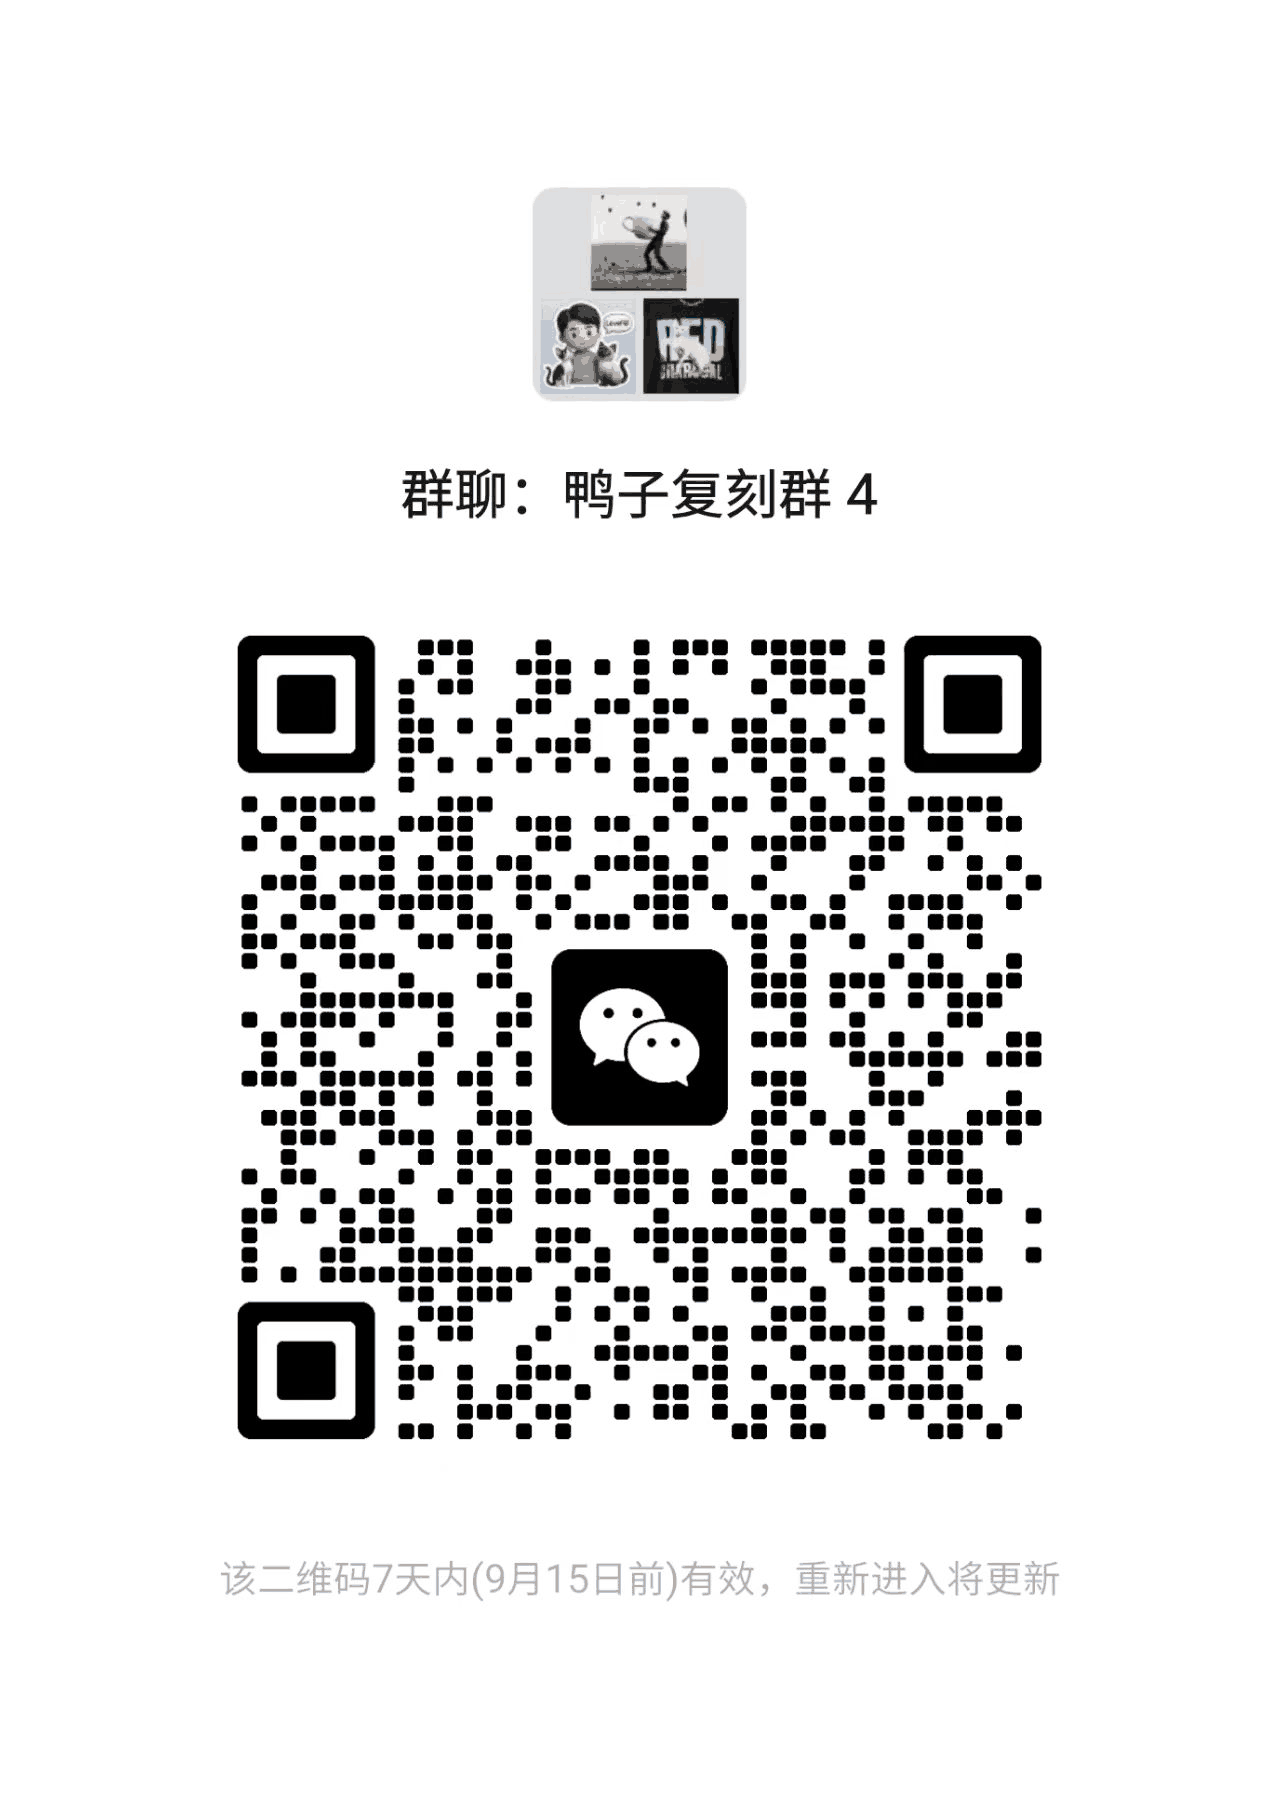
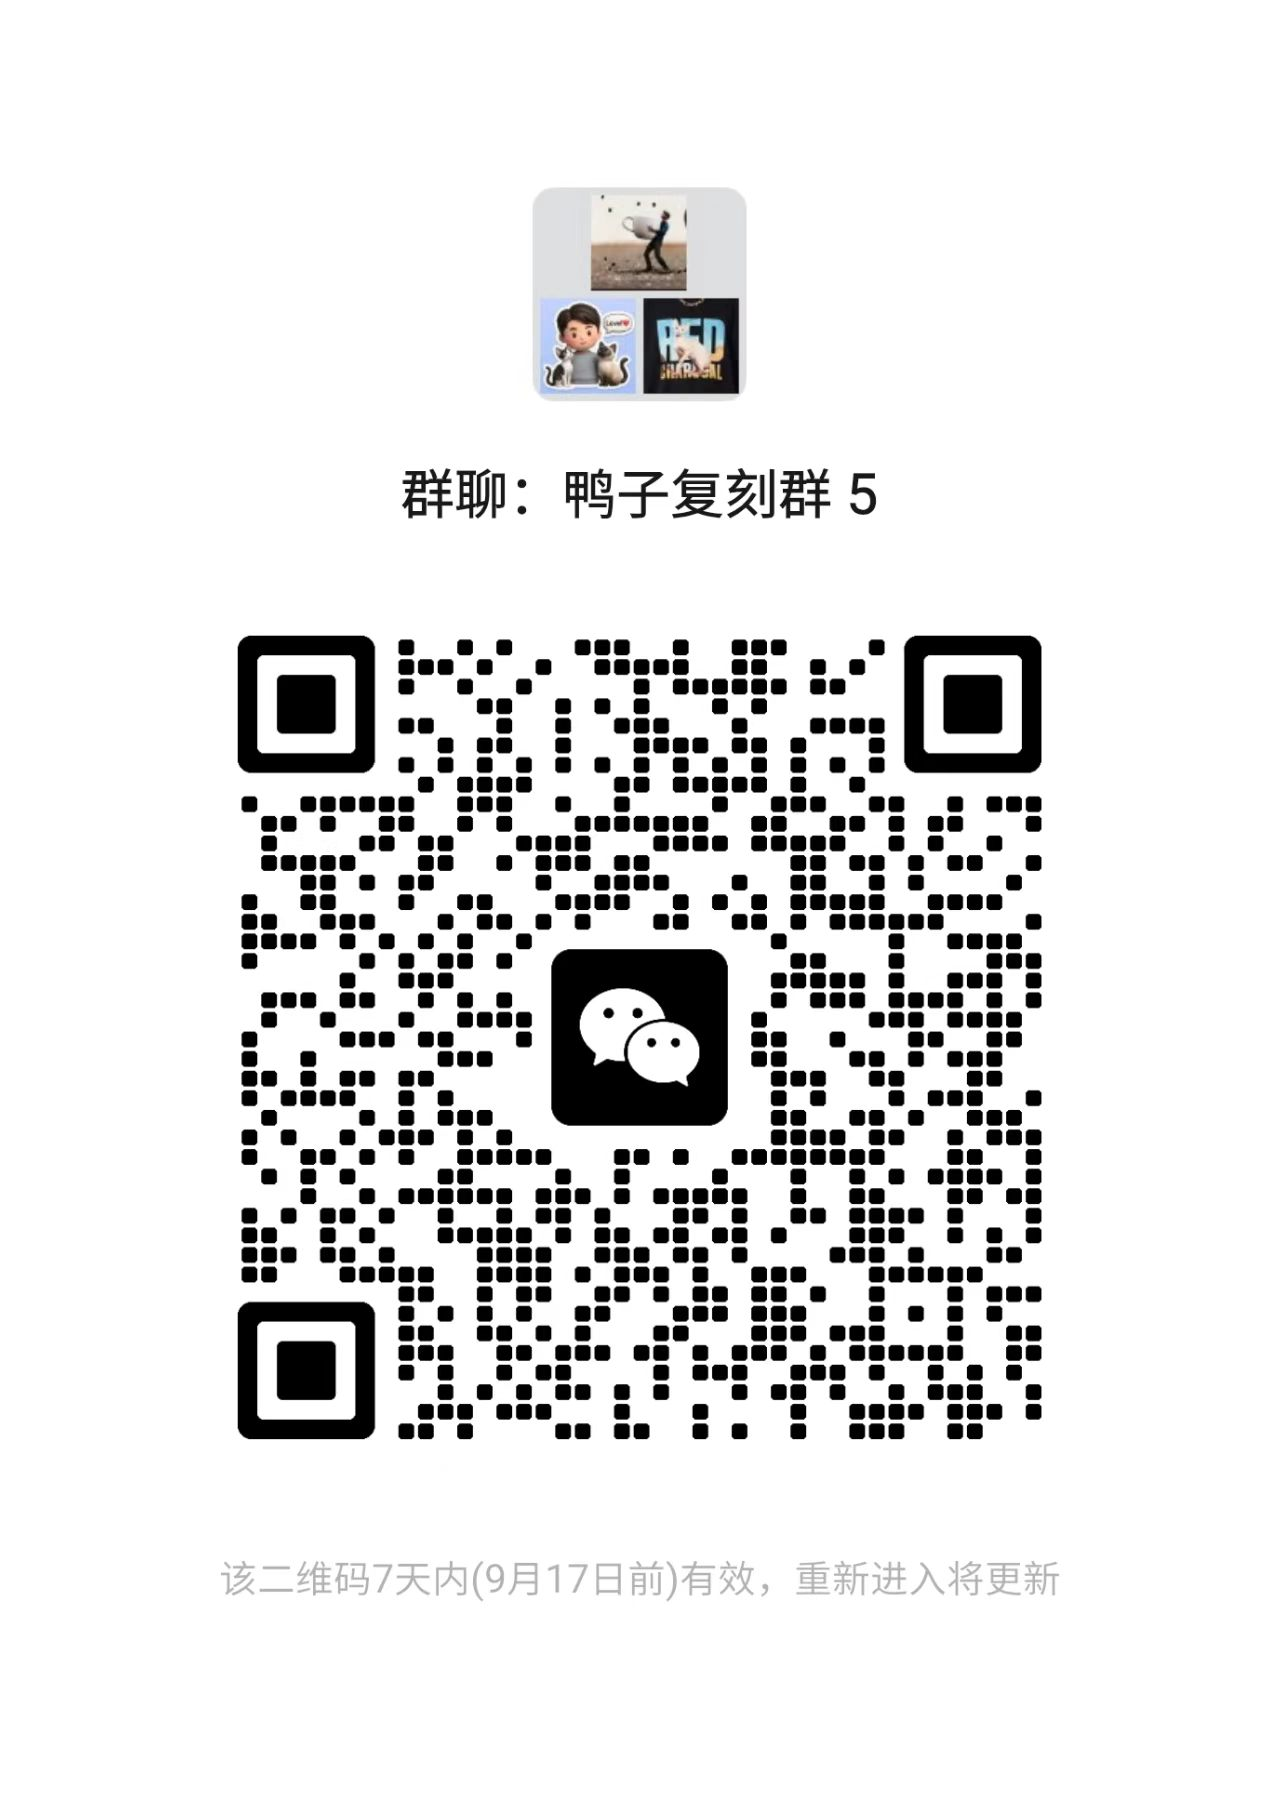
换微信群二维码：四群已满，改挂五群的码（有效期到 2026-09-17）
Claude-Session: https://claude.ai/code/session_01QaUYTekdzwBKjcMGiQfvpz

diff --git a/README.md b/README.md
@@ -28,12 +28,12 @@ MJCF 里包含了完整的运动学树：每个零件挂在谁身上、相对位
 
 有人在做同样的事，凑了个微信群一起讨论复刻进度、踩过的坑、元件采购。
 
-**一群、二群、三群都已满 200 人**（微信满 200 后无法扫码进），下面是**四群**的码。
+**一群到四群都已满 200 人**（微信满 200 后无法扫码进），下面是**五群**的码。
 
 <div align="center">
   <img src="assets/wechat-group.png" alt="鸭子复刻 微信群" width="280">
   <br>
-  <sub><b>鸭子复刻群 4 · 二维码有效期到 2026-09-15</b>（微信群码 7 天自动失效）<br>
+  <sub><b>鸭子复刻群 5 · 二维码有效期到 2026-09-17</b>（微信群码 7 天自动失效）<br>
   过期了请开个 <a href="https://github.com/fanhao375/microduck-replica/issues">issue</a> 说一声，我会换上新的</sub>
 </div>
 

diff --git a/README.en.md b/README.en.md
@@ -44,12 +44,12 @@ This repository is what falls out of reading both.
 
 A WeChat group for people working on the same thing — build progress, pitfalls, sourcing.
 
-**Groups 1, 2 and 3 are full (200 members each — WeChat's cap for QR joins).** The code below is for **group 4**.
+**Groups 1–4 are full (200 members each — WeChat's cap for QR joins).** The code below is for **group 5**.
 
 <div align="center">
   <img src="assets/wechat-group.png" alt="Microduck replica WeChat group" width="280">
   <br>
-  <sub><b>Duck Replica Group 4 · expires 2026-09-15</b> — WeChat group codes are valid for 7 days<br>
+  <sub><b>Duck Replica Group 5 · expires 2026-09-17</b> — WeChat group codes are valid for 7 days<br>
   If it has expired, open an <a href="https://github.com/fanhao375/microduck-replica/issues">issue</a> and I will post a fresh one</sub>
 </div>
 
